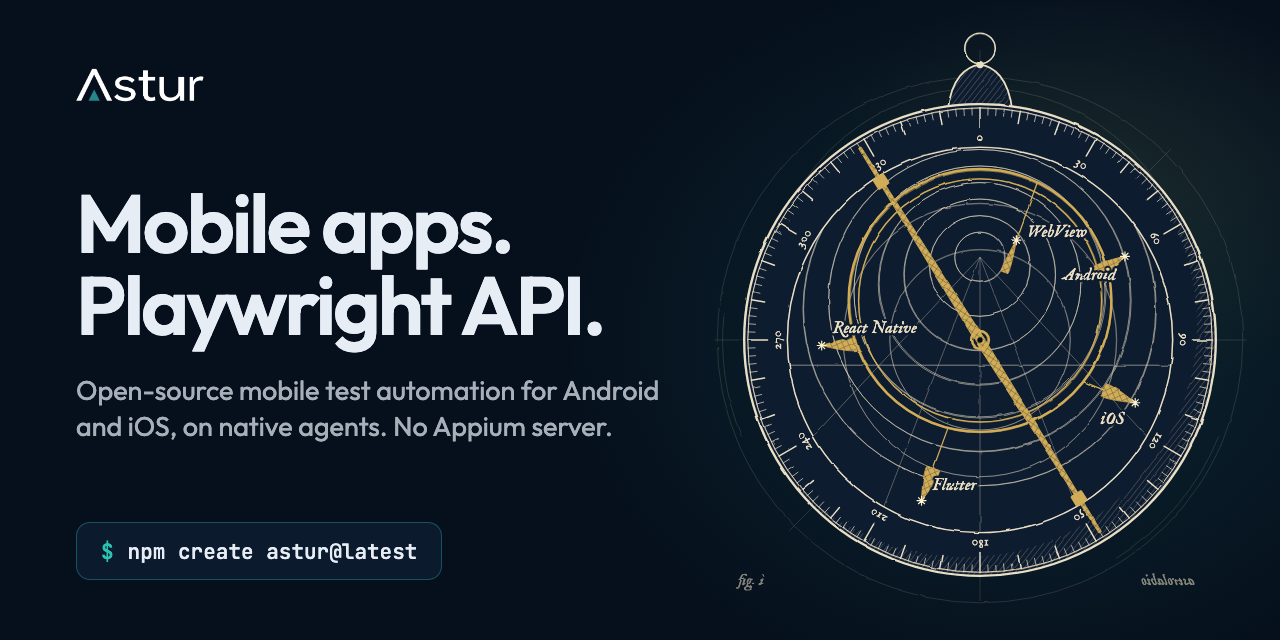
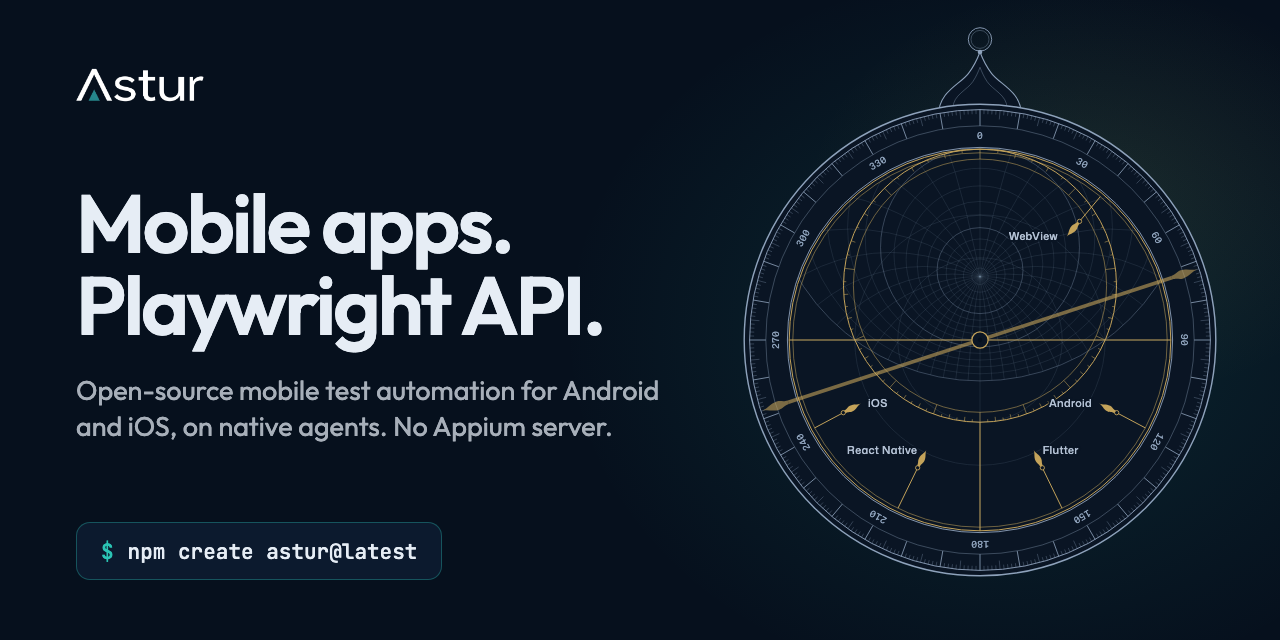
feat(docs-site): engrave the astrolabe and redraw the social card
Replace the ink-sketch astrolabe with a precise engraving: a plate
projected for Aleppo's latitude, a computed ecliptic, a one-degree limb
scale, and star pointers and rule with ogee tips, the pointed-arch
profile of Arabic instruments. Labels move from the hand-lettered face
to Mona Sans. The social card and README banner are re-rendered from it.

Changed region(s): [[0.5625, 0.0312, 0.9688, 0.9062], [0.9062, 0.9062, 0.9375, 0.9375], [0.5625, 0.9062, 0.5938, 0.9375]]

diff --git a/docs-site/src/styles/astrolabe.css b/docs-site/src/styles/astrolabe.css
@@ -1,64 +1,60 @@
-/* The astrolabe drawn by src/lib/astrolabe.mjs, as a notebook study in ink.
-   Shared by the landing hero and the social card, which is rendered from the
-   same markup and styles. */
+/* The astrolabe drawn by src/lib/astrolabe.mjs, as an engraving: hairlines in
+   steel for the fixed parts, brass for the parts that turn. Shared by the
+   landing page and the social card, which is rendered from the same markup and
+   styles. */
 
 .astrolabe {
   --astro-night: #06101d;
-  --astro-plate: #0d1b2f;
-  --astro-ink: #eadfc4;
-  --astro-brass: #d2ad58;
-  --astro-hand: 'IM Fell English', 'Iowan Old Style', Georgia, serif;
+  --astro-plate: #0a1524;
+  --astro-line: #8ea2bb;
+  --astro-brass: #c4a35a;
+  --astro-type: 'Mona Sans', 'Inter', system-ui, sans-serif;
   display: block;
   width: 100%;
   height: auto;
   overflow: visible;
 }
 
-/* Ink: parchment-coloured lines at full strength. */
-.astrolabe .astro-ink { fill: none; stroke: var(--astro-ink); stroke-width: 1.6; stroke-linecap: round; }
-.astrolabe .astro-ink--heavy { stroke-width: 2.6; }
-.astrolabe .astro-ink--fine { stroke-width: 1; }
-/* The second pass of the pen: lighter, never quite on the first. */
-.astrolabe .astro-retrace { stroke-width: 0.8; opacity: 0.55; }
-
+.astrolabe .astro-line { fill: none; stroke: var(--astro-line); stroke-width: 1; }
+.astrolabe .astro-line--rim { stroke-width: 1.6; }
+.astrolabe .astro-line--fine { stroke-width: 0.6; opacity: 0.7; }
 .astrolabe .astro-mater { fill: var(--astro-plate); }
-.astrolabe .astro-throne { fill: var(--astro-plate); stroke: var(--astro-ink); stroke-width: 2; }
-.astrolabe .astro-pin { fill: var(--astro-ink); }
-.astrolabe .astro-tick { stroke: var(--astro-ink); stroke-width: 1; stroke-linecap: round; opacity: 0.8; }
-.astrolabe .astro-tick--major { stroke-width: 1.6; opacity: 1; }
+.astrolabe .astro-throne { fill: var(--astro-plate); stroke: var(--astro-line); stroke-width: 1.2; }
+.astrolabe .astro-pin { fill: var(--astro-line); }
+
+.astrolabe .astro-tick { stroke: var(--astro-line); stroke-width: 0.5; opacity: 0.7; }
+.astrolabe .astro-tick--major { stroke-width: 0.9; opacity: 1; }
 .astrolabe .astro-numeral {
-  fill: var(--astro-ink);
-  font: italic 15px var(--astro-hand);
+  fill: var(--astro-line);
+  font: 500 10.5px var(--astro-type);
+  font-variant-numeric: tabular-nums;
+  letter-spacing: 0.04em;
   text-anchor: middle;
   dominant-baseline: middle;
 }
-.astrolabe .astro-plate-line { fill: none; stroke: var(--astro-ink); stroke-width: 1; opacity: 0.62; }
-.astrolabe .astro-plate-line--faint { opacity: 0.38; }
 
-.astrolabe .astro-construction { fill: none; stroke: var(--astro-ink); stroke-width: 0.7; opacity: 0.22; }
-.astrolabe .astro-hatch-line { stroke: var(--astro-ink); stroke-width: 0.8; }
-.astrolabe .astro-hatch-line--dark { stroke: var(--astro-night); stroke-width: 1; }
-.astrolabe .astro-shade { stroke: none; opacity: 0.55; }
-.astrolabe .astro-shade--brass { opacity: 0.55; }
+.astrolabe .astro-plate { fill: none; stroke: var(--astro-line); stroke-width: 0.7; opacity: 0.55; }
+.astrolabe .astro-plate--faint { stroke-width: 0.5; opacity: 0.3; }
 
-/* Brass: the parts that move. */
-.astrolabe .astro-brass { fill: none; stroke: var(--astro-brass); stroke-width: 1.4; stroke-linecap: round; }
-.astrolabe .astro-brass--heavy { stroke-width: 2.6; }
+.astrolabe .astro-brass { fill: none; stroke: var(--astro-brass); stroke-width: 1.1; }
+.astrolabe .astro-brass--fine { stroke-width: 0.6; }
 .astrolabe .astro-pointer,
-.astrolabe .astro-rule { fill: var(--astro-brass); stroke: var(--astro-brass); stroke-width: 0.8; stroke-linejoin: round; }
+.astrolabe .astro-rule { fill: var(--astro-brass); stroke: none; }
+.astrolabe .astro-rule { opacity: 0.6; }
+.astrolabe .astro-boss { fill: var(--astro-plate); stroke: var(--astro-brass); stroke-width: 1; }
+.astrolabe .astro-boss--hub { stroke-width: 1.4; }
 .astrolabe .astro-pin-hole { fill: var(--astro-night); }
-.astrolabe .astro-star { fill: none; stroke: #fff3cf; stroke-width: 1.3; stroke-linecap: round; }
 
 .astrolabe .astro-label {
-  fill: var(--astro-ink);
-  font: italic 19px var(--astro-hand);
+  fill: #b3c1d4;
+  font: 500 12px var(--astro-type);
+  letter-spacing: 0.03em;
   /* A halo in the plate colour, so engraved lines never cut through a name. */
   paint-order: stroke;
   stroke: var(--astro-plate);
-  stroke-width: 6px;
+  stroke-width: 5px;
   stroke-linejoin: round;
 }
-.astrolabe .astro-note { fill: var(--astro-ink); font: italic 17px var(--astro-hand); opacity: 0.55; }
 
 /* Groups turn about the centre of the instrument, not of their own box. */
 .astrolabe .astro-rete,
@@ -66,4 +62,4 @@
   transform-box: view-box;
   transform-origin: 300px 340px;
 }
-.astrolabe .astro-alidade { transform: rotate(-32deg); }
+.astrolabe .astro-alidade { transform: rotate(72deg); }
